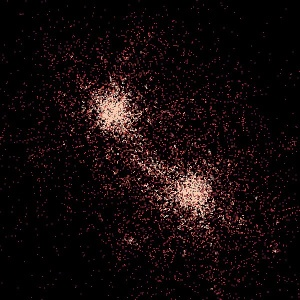
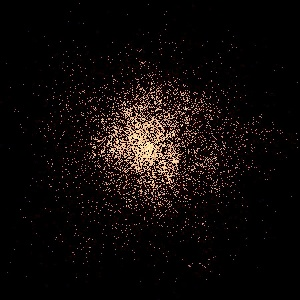
updated files

diff --git a/src/simulationpygame.py b/src/simulationpygame.py
@@ -1,5 +1,3 @@
-import numpy as np
-
 from quadtreepygame import Point, Rectangle, QuadTree, return_nodes
 from config import *
 import random
@@ -12,7 +10,7 @@ flags = HWSURFACE | DOUBLEBUF
 
 
 start = time.time()
-width, height = 600, 600
+width, height = 600,600
 
 screen = pygame.display.set_mode((width, height), flags)
 screen.set_alpha(None)
@@ -34,24 +32,25 @@ colours = ["cyan",
 
 
 
-num_points = 5000
+num_points = 0
 a = time.time()
 
 #doughnut
-n = num_points
+# n = num_points
+#
+# circle_outer_radius = 200
+# circle_inner_radius = 140
+# points = []
+#
+# for _ in range(n):
+#     p = (random.uniform(-circle_outer_radius,circle_outer_radius), random.uniform(-circle_outer_radius,circle_outer_radius))
+#     if (p[0]**2+p[1]**2 <= circle_outer_radius**2) and (p[0]**2+p[1]**2 >= circle_inner_radius**2):
+#         points.append(Point(p[0]+width//2, p[1]+height//2))
 
-circle_outer_radius = 200
-circle_inner_radius = 140
-points = []
 
-for _ in range(n):
-    p = (random.uniform(-circle_outer_radius,circle_outer_radius), random.uniform(-circle_outer_radius,circle_outer_radius))
-    if (p[0]**2+p[1]**2 <= circle_outer_radius**2) and (p[0]**2+p[1]**2 >= circle_inner_radius**2):
-        points.append(Point(p[0]+width//2, p[1]+height//2))
-
-
-# gaussian = rd.normal(height//2, 50, size=(num_points, 2))
-# points = list(Point(gaussian[i][0], gaussian[i][1]) for i in range(num_points))
+gaussian = rd.normal(450, 150, size=(num_points, 2))
+points = list(Point(gaussian[i][0], gaussian[i][1]) for i in range(num_points))
+#points += [Point(450,450,500,4)]
 # gaussian2 = rd.normal(2* height // 3, 50, size=(num_points, 2))
 # #
 # points += list(Point(gaussian2[i][0], gaussian2[i][1]) for i in range(num_points))
@@ -78,6 +77,11 @@ while run == 'y':
             x, y = pygame.mouse.get_pos()
             point = Point(x, y)
             points.append(point)
+        if event.type == pygame.KEYDOWN:
+            if event.key == K_c:
+                pygame.image.save(screen, f"frames\\screenshot{i}.jpeg")
+                i += 1
+
 
 
 
@@ -86,28 +90,26 @@ while run == 'y':
     quadtree.mainloop()
     quadtree.display(screen)
     for point in points:
-        #point.move()
-
         if point.x > width or point.x < 0 or point.y > height or point.y < 0:
             points.remove(point)
         else:
             fx, fy = quadtree.calculate_force(point)
             point.momentum[0] += dt * fx
             point.momentum[1] += dt * fy
-            point.x += dt * point.momentum[0] * 0.1
-            point.y += dt * point.momentum[1] * 0.1
+            point.x += dt * (point.momentum[0]/point.mass) * 0.1
+            point.y += dt * (point.momentum[1]/point.mass) * 0.1
 
-    #lenpoints = font.render('Number of particles: ' + str(len(points)), 1, (0,255,0))
-    #lennodes = font.render('Number of nodes: ' + str(len(return_nodes())), 1, (0,255,0))
-    #screen.blit(lenpoints, (0, 0))
-    #screen.blit(lennodes, (0, 20))
-    pygame.image.save(screen, f"frames\\frame{i}.jpeg")
-    i+=1
+    lenpoints = font.render('Number of particles: ' + str(len(points)), 1, (0,255,0))
+    lennodes = font.render('Number of nodes: ' + str(len(return_nodes())), 1, (0,255,0))
+    screen.blit(lenpoints, (0, 0))
+    screen.blit(lennodes, (0, 20))
+    #pygame.image.save(screen, f"frames\\frame{i}.jpeg")
+
 
     pygame.display.flip()
     quadtree.clear()
     y = time.time()
-    print(y-x)
+    #print(y-x)
 pygame.quit()
 
 

diff --git a/src/quadtreepygame.py b/src/quadtreepygame.py
@@ -24,21 +24,17 @@ class Rectangle:
                    range.x + range.w < self.x - self.w or
                    range.y - range.h > self.y + self.h or
                    range.y + range.h < self.y - self.h)
-    # def draw(self, canvas, depth, mass, com):
-    #     canvas.create_rectangle(self.x-self.w,self.y-self.h, self.x+self.w, self.y+self.h, outline = 'white' , width = 1)
-    #     canvas.create_text(self.x-20, self.y, text = depth, fill = 'white', tag = 'e')
-    #     canvas.create_text(self.x+20, self.y, text = mass, fill = 'white', tag = 'e')
-    #     if not com[0] == 0 and not com[1] == 0:
-    #         canvas.create_oval(com[0], com[1],com[0] +  max(0, 40-5*len(depth)),com[1] +  max(0, 40-5*len(depth)), fill='yellow', tag = 'e')
-    #         canvas.create_text(com[0], com[1]+45, text=com, fill='white', tag = 'e')
-    #         canvas.create_text(com[0], com[1]+30, text=depth, fill='white', tag = 'e')
-    def draw(self, screen,  mass, com, display_config = False):
+    def draw(self, screen,  mass, com, depth, display_config = True):
         if display_config:
             pygame.draw.rect(screen, (0,255,0), pygame.Rect(self.x-self.w, self.y-self.h, self.w*2, self.h*2), 1)
             mass_text = font.render(str(mass), False, (255,255,255))
             screen.blit(mass_text, (self.x, self.y))
+            d_text = font.render(f'depth: {depth}', False, (255, 255, 255))
+            screen.blit(d_text, (self.x, self.y+10))
             try:
                 pygame.draw.circle(screen, (255,0,0), (com[0], com[1]), 4)
+                com_text = font.render(f'com: {com}', False, (255, 255, 255))
+                screen.blit(com_text, (com[0], com[1]))
             except:
                 pass
 
@@ -173,7 +169,7 @@ class QuadTree:
 
 
     def display(self, screen):
-        self.boundary.draw(screen, self.mass, self.com)
+        self.boundary.draw(screen, self.mass, self.com, self.depth)
         list(p.render(screen) for p in self.points)
 
         #screen.blits([(p.image, (p.x, p.y)) for p in self.points])

diff --git a/src/Particle.py b/src/Particle.py
@@ -34,10 +34,12 @@ class Point:
         self.image = cached_image
 
     def render(self, screen):
-        self.colordensity = min(int(self.quadrant.mass * 50 // (self.quadrant.boundary.w * 2)), 100)
-        colorindex = (11 * math.log10(self.colordensity + 0.446) + 4)
-        pygame.draw.circle(screen, pygame.Color(colorrange[int(colorindex)]), (self.x, self.y), self.size)
+        #self.colordensity = min(int(self.quadrant.mass * 50 // (self.quadrant.boundary.w * 2)), 100)
+        #colorindex = (11 * math.log10(self.colordensity + 0.446) + 4)
+        #pygame.draw.circle(screen, pygame.Color(colorrange[int(colorindex)]), (self.x, self.y), self.size)
         #cdf = font.render((str(self.colordensity)), 1, (0,255,0))
+        pygame.draw.circle(screen, (255,255,255), (self.x, self.y), self.size)
+
         #screen.blit(cdf, (self.x, self.y+5))
 
     def distance(self, pos):

diff --git a/src/config.py b/src/config.py
@@ -3,11 +3,11 @@ import seaborn as sb
 
 theta = 0.45
 G = 0.82
-dt = 9
+dt = 15
 floatcutoff = 0.01
 # r = sb.color_palette('mako', 29)
 # colorrange = r.as_hex()[2:]
-colorrange = ['#251729', '#2d1d38', '#332345', '#382a54', '#3c3162', '#403872', '#413f80', '#40498e', '#3d5296', '#395d9c', '#37669e', '#3671a0', '#357ba3', '#3484a5', '#348ea7', '#3497a9', '#35a1ab', '#38aaac', '#3eb4ad', '#45bdad', '#50c6ad', '#60ceac', '#79d6ae', '#91dbb4', '#a9e1bd', '#bbe7c8', '#ceeed7']
+colorrange = ['#3d0f71', '#4a1079', '#56147d', '#621980', '#6d1d81', '#792282', '#842681', '#912b81', '#9c2e7f', '#aa337d', '#b73779', '#c23b75', '#cf4070', '#d9466b', '#e44f64', '#ec5860', '#f3655c', '#f7725c', '#fa815f', '#fc8e64', '#fe9d6c', '#feaa74', '#feb97f', '#fec68a', '#fed597', '#fde2a3', '#fcf0b2']
 
 
 
